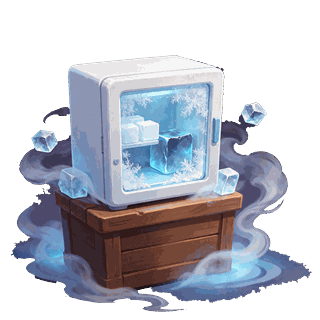
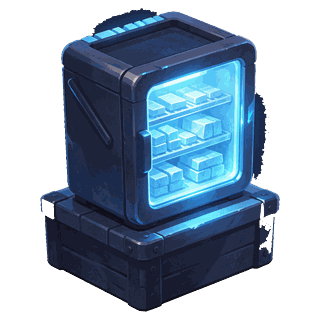
接入美术:52 张新图(摊位、图标、界面底图、顾客、地面、牌楼)
- 新增炭炉;重出冰柜、招财猫、炒饭、糖葫芦、套圈、手机壳
- 金币、爱心、奖牌、11 个秘诀图标换成图片
- 按钮、纸签、木牌、横幅换成九宫格底图;横幅两端单独留宽
- 7 个顾客的正面和背面;亲子夜的小孩优先用小孩形象
- 街面、摊位区地面、面板木板贴图;街口牌楼;转发封面;小游戏图标放在 上架素材/
- process_art:取样点避开伸到边缘的主体;个别原图可登记特殊处理(容差、镂空、多抠一圈、只留中间);
  按钮裁木桩、纸签补缺口;贴图裁边后镜像拼成无缝;封面按 5:4 居中裁
- 铺了地面贴图后,没解锁的地块压暗;小牌子仍用代码画
- 原图暂不进仓库(带水印、体积大),只提交处理后的小图;移除 6 张已被替换的旧原图
- 文档:美术规格第 0 节(进度、这批图的问题、待办)、交付说明、原图命名说明

diff --git a/night-market-game/js/main.js b/night-market-game/js/main.js
@@ -10,7 +10,6 @@ const GOLD = '#ffc94a', DIM = '#b9a98f', TXT = '#fbf3e2';
 const INK = '#2b1a12', PAPER = '#f6e7c8', PAPER_D = '#e6d2a8', WOOD = '#6b4027', WOOD_D = '#3a2216', RED = '#d24a35', GREEN = '#3f9163', WARM = '#c9b79a', BROWN = '#8a6a48';
 const ui = { sel: null, modal: null, toast: null, hits: [], t: 0, dark: .35, pops: [], coins: [], rings: [], money: 60, inc: 0, feed: [], speed: 1, cust: [], spawn: 0, gap: .3, endT: 0, peek: null, best: 0, pendingRival: null, lastAr: null };
 const pick = a => a[Math.random() * a.length | 0];
-const GATE_TEXT_Y = .74;   // 牌楼图里横匾中心离底边的高度占整张图的比例,换了牌楼图要按图调
 
 // ---------- 基础绘制 ----------
 const font = (px, b) => `${b ? 'bold ' : ''}${px}px "PingFang SC","Microsoft YaHei",sans-serif`;
@@ -52,7 +51,7 @@ const NINE_OF = { [PAPER]: 'ui_paper', '#fff5df': 'ui_paper', [PAPER_D]: 'ui_pap
 // 角画多大:按钮和木牌(192×96 的图)按高度等比,纸签(192×192)按短边的八分之一,限制在 6~14 之间
 const cornerOf = (img, w, h) => img === 'ui_paper' ? Math.max(6, Math.min(14, Math.min(w, h) / 8)) : h / 4;
 function plate(x, y, w, h, fill, r = 8, lift = 3, img = NINE_OF[fill]) {
-  if (img && A.image(img)) {
+  if (img && A.image(img) && !(img === 'ui_paper' && Math.min(w, h) < 36)) {   // 手撕纸签缩得太小边缘会毛糙:小牌子(顶栏的小按钮、提示条)仍用代码画
     const a = ctx.globalAlpha; if (fill === PAPER_D) ctx.globalAlpha = a * .55;   // 暗一号的纸(没解锁的图鉴格子)用半透明表示
     A.nine(ctx, img, x, y, w, h + lift, cornerOf(img, w, h)); ctx.globalAlpha = a; return;
   }
@@ -271,7 +270,7 @@ function updateNight(dt) {
   const sdt = dt * ui.speed; ui.spawn -= sdt;
   if (N.queue.length && ui.spawn <= 0) {
     ui.spawn = ui.gap; const c = L.newCust(N.queue.pop());
-    Object.assign(c, { x: l.streetX + l.sw / 2 + (Math.random() - .5) * l.sw * .5, y: l.gridY - 30, dir: 1, next: 0, look: A.pickLook(c.rich), seed: Math.random() * 9, shirt: pick(A.SHIRTS), hair: pick(A.HAIRS), skin: pick(A.SKINS), shirt2: pick(A.SHIRTS), hair2: pick(A.HAIRS), look2: A.pickLook(false) });
+    Object.assign(c, { x: l.streetX + l.sw / 2 + (Math.random() - .5) * l.sw * .5, y: l.gridY - 30, dir: 1, next: 0, look: A.pickLook(c.rich, c.kid), seed: Math.random() * 9, shirt: pick(A.SHIRTS), hair: pick(A.HAIRS), skin: pick(A.SKINS), shirt2: pick(A.SHIRTS), hair2: pick(A.HAIRS), look2: A.pickLook(false) });
     ui.cust.push(c);
   }
   const sp = (l.gridH + 56) / 2.6;
@@ -437,14 +436,15 @@ function drawScene() {
       }
       if (sel && sel.kind === 'stall' && sel.s === at) { ctx.strokeStyle = `rgba(255,215,90,${.6 + .4 * pulse})`; ctx.lineWidth = 2.5; ctx.stroke(); }
     } else {
-      ctx.strokeStyle = 'rgba(255,255,255,.1)'; ctx.lineWidth = 1; ctx.setLineDash([4, 4]); ctx.stroke(); ctx.setLineDash([]);
+      if (A.image('tile_walk')) { ctx.fillStyle = 'rgba(8,7,18,.5)'; ctx.fill(); }   // 铺了地面贴图以后,没解锁的地块压暗一层,和能用的地块分开
+      ctx.strokeStyle = 'rgba(255,255,255,.16)'; ctx.lineWidth = 1; ctx.setLineDash([4, 4]); ctx.stroke(); ctx.setLineDash([]);
       if (day && L.canUnlock(c, r)) txt('+¥' + L.unlockCost(), p.x + p.w / 2, p.y + p.h / 2, 11, S.money >= L.unlockCost() ? '#b9f5cf' : DIM, 'center');
     }
     if (day) hit(p.x, p.y, p.w, p.h, () => tapPlot(c, r));
   }
-  // 街口牌楼:有 gate.png 就画图(2:1,横匾留空,字由这里写在横匾的位置),没有就画一道红横梁
+  // 街口牌楼:有 gate.png 就画图,立在街口正中;没有就画一道写着「夜市」的红横梁
   const gate = A.image('gate'), gcx = l.streetX + l.sw / 2;
-  if (gate) { const gh = 36, gw = gh * gate.width / gate.height; ctx.drawImage(gate, gcx - gw / 2, l.gridY - 6 - gh, gw, gh); txt('夜 市', gcx, l.gridY - 6 - gh * GATE_TEXT_Y, 11, '#ffe6a0', 'center', true); }
+  if (gate) { const gh = 46, gw = gh * gate.width / gate.height; ctx.drawImage(gate, gcx - gw / 2, l.gridY - 2 - gh, gw, gh); }   // 牌楼图太小,横匾里写不下字,就不写了
   else {
     A.rr(ctx, l.streetX - 4, l.gridY - 30, l.sw + 8, 20, 6); ctx.fillStyle = '#b8322a'; ctx.fill();
     ctx.fillStyle = '#e25a40'; ctx.fillRect(l.streetX - 4, l.gridY - 30, l.sw + 8, 4); txt('夜 市', gcx, l.gridY - 19, 12, '#ffe6a0', 'center', true);

diff --git a/night-market-game/js/art.js b/night-market-game/js/art.js
@@ -11,10 +11,13 @@ export const IMAGE_FILES = ASSETS.slice();
 const IMG = {};
 export const image = name => IMG[name];
 // 给一位顾客随机挑一套形象(返回名字);没有顾客图片时返回 null,用代码画的小人
-export function pickLook(rich) {
+const KID_LOOKS = ['boy', 'girl', 'pupil'];   // 这几个形象是小孩:亲子夜里的小孩优先用它们
+export function pickLook(rich, kid) {
   const ids = Object.keys(IMG).map(k => (k.match(/^cust_(.+)_front$/) || [])[1]).filter(Boolean);
   if (rich) return ids.indexOf('rich') >= 0 ? 'rich' : null;
-  const normal = ids.filter(i => i !== 'rich'); return normal.length ? normal[Math.random() * normal.length | 0] : null;
+  let normal = ids.filter(i => i !== 'rich'); const kids = normal.filter(i => KID_LOOKS.indexOf(i) >= 0);
+  if (kid && kids.length) normal = kids;
+  return normal.length ? normal[Math.random() * normal.length | 0] : null;
 }
 export function loadImages(P) {
   for (const f of IMAGE_FILES) { const im = P.createImage(); im.onload = () => { IMG[f.replace(/\.\w+$/, '')] = im; }; im.src = 'assets/' + f; }
@@ -157,11 +160,13 @@ export function icon(ctx, name, x, y, size) {
 // 九宫格拉伸:原图四个角各 SLICE 像素保持原样,四条边和中间拉长。corner 是角在屏幕上画多大(设计稿单位)。
 // 有图返回 true;没图返回 false,由调用方用代码画
 const SLICE = 24;
+// 横幅两端的卷轴比 24 像素宽:左右各留 44 像素不拉伸(要和 tools/process_art.py 里的 SLICE_X 一致)
+const SLICE_X = { ui_ribbon_red: 44, ui_ribbon_gold: 44, ui_ribbon_gray: 44 };
 export function nine(ctx, name, x, y, w, h, corner) {
   const im = IMG[name]; if (!im) return false;
-  const s = SLICE, iw = im.width, ih = im.height, d = Math.min(corner, w / 2, h / 2), o = .5;   // o:相邻两块互相压住半个单位,缩放后不露缝
-  const sx = [0, s, iw - s], sw = [s, iw - 2 * s, s], sy = [0, s, ih - s], sh = [s, ih - 2 * s, s];
-  const dx = [x, x + d, x + w - d], dw = [d, w - 2 * d, d], dy = [y, y + d, y + h - d], dh = [d, h - 2 * d, d];
+  const s = SLICE, t = SLICE_X[name] || s, iw = im.width, ih = im.height, d = Math.min(corner, w / 2, h / 2), e = Math.min(d * t / s, w / 2), o = .5;   // o:相邻两块互相压住半个单位,缩放后不露缝
+  const sx = [0, t, iw - t], sw = [t, iw - 2 * t, t], sy = [0, s, ih - s], sh = [s, ih - 2 * s, s];
+  const dx = [x, x + e, x + w - e], dw = [e, w - 2 * e, e], dy = [y, y + d, y + h - d], dh = [d, h - 2 * d, d];
   for (let r = 0; r < 3; r++) for (let c = 0; c < 3; c++) {
     if (dw[c] <= 0 || dh[r] <= 0) continue;
     const ex = c === 1 ? o : 0, ey = r === 1 ? o : 0;

diff --git a/night-market-game/js/assets.js b/night-market-game/js/assets.js
@@ -1,2 +1,2 @@
 // 这个文件由 tools/process_art.py 自动生成,不要手改。assets/ 里有哪些图片,游戏就加载哪些。
-export default ['stall_candy.png', 'stall_cat.png', 'stall_fridge.png', 'stall_ice.png', 'stall_kebab.png', 'stall_lamp.png', 'stall_phone.png', 'stall_rice.png', 'stall_ring.png', 'stall_tea.png', 'stall_tofu.png'];
+export default ['cust_boy_back.png', 'cust_boy_front.png', 'cust_girl_back.png', 'cust_girl_front.png', 'cust_granny_back.png', 'cust_granny_front.png', 'cust_office_back.png', 'cust_office_front.png', 'cust_pupil_back.png', 'cust_pupil_front.png', 'cust_rich_back.png', 'cust_rich_front.png', 'cust_uncle_back.png', 'cust_uncle_front.png', 'gate.png', 'icon_coin.png', 'icon_heart.png', 'icon_heart_empty.png', 'medal_1.png', 'medal_2.png', 'medal_3.png', 'perk_back.png', 'perk_big.png', 'perk_cheap.png', 'perk_first.png', 'perk_land.png', 'perk_last.png', 'perk_more.png', 'perk_price.png', 'perk_rich.png', 'perk_shout.png', 'perk_tip.png', 'share_cover.jpg', 'stall_candy.png', 'stall_cat.png', 'stall_fridge.png', 'stall_grill.png', 'stall_ice.png', 'stall_kebab.png', 'stall_lamp.png', 'stall_phone.png', 'stall_rice.png', 'stall_ring.png', 'stall_tea.png', 'stall_tofu.png', 'tile_street.jpg', 'tile_walk.jpg', 'tile_wood.jpg', 'ui_btn_green.png', 'ui_btn_paper.png', 'ui_btn_red.png', 'ui_paper.png', 'ui_ribbon_gold.png', 'ui_ribbon_gray.png', 'ui_ribbon_red.png', 'ui_wood.png'];

diff --git a/night-market-game/美术规格与出图提示词.md b/night-market-game/美术规格与出图提示词.md
@@ -4,23 +4,44 @@
 
 风格已经定了:**以已经完成的烤串摊为准**,后面所有素材都拿它做风格参考图。
 
-## 0. 当前进度和待办(2026-11-13)
+## 0. 当前进度和待办(2026-11-17)
 
-**已经进游戏的:** 8 个售卖摊(烤串、臭豆腐、炒饭、奶茶、糖葫芦、冰粉、套圈、手机壳)和 3 个支援摊(灯牌、冰柜、招财猫)。大小、角度一致,棚顶颜色符合品类。
+**已经进游戏的:**
+
+- 摊位:8 个售卖摊(烤串、臭豆腐、炒饭、奶茶、糖葫芦、冰粉、套圈、手机壳)和 4 个支援摊(灯牌、冰柜、炭炉、招财猫)。其中炒饭、糖葫芦、套圈、手机壳、冰柜、招财猫、炭炉是 11 月 17 日这一批新出的。
+- 图标:金币、爱心(实心和空心)、铜银金牌、11 个经营秘诀图标。
+- 界面底图:红、绿、米白三种按钮,纸签,木牌,红、金、灰三条横幅。
+- 顾客:6 个普通顾客(上班族、老奶奶、大胡子、男孩、女孩、小学生)和 1 个土豪,正面和背面都有。男孩、女孩、小学生在「亲子夜」里当小孩用。
+- 地面:街面(石子路)、摊位区地面(石板)、底部面板的木板。
+- 其他:街口牌楼、转发封面;小游戏图标处理后放在 `上架素材/app_icon.png`。
+
+**这一批交图里发现的问题(程序已经兜住,下次出图请避免):**
+
+| 问题 | 哪几张 | 程序怎么处理的 | 下次出图怎么改 |
+|---|---|---|---|
+| 朝向反了(正面朝左下) | 炒饭、糖葫芦、手机壳 | 文件名加 `_flip`,脚本水平翻转 | 正面朝右下,能看到正面和左侧面,以烤串为准 |
+| 新摊位比旧摊位暗 | 炒饭、糖葫芦、手机壳 | 没处理 | 棚内灯光再亮一些,和烤串、奶茶放在一起比一下 |
+| 主体伸到了图片外 | 握手图标(袖子)、银牌(绶带) | 握手只留中间;银牌绶带顶上是平的 | 主体完整地画在图片里,四周留空 |
+| 主体颜色和背景太像 | 冰柜的深蓝底座 | 这一张单独调小了抠图容差 | 底座用木头色,或者背景换成和主体差得远的颜色 |
+| 背景不是纯色 | 上班族(身后一团亮光)、土豪(身边一圈暗影)、男孩(脚下踩着石头)、老奶奶和大胡子(脚下有投影) | 亮光、暗影、石头都单独抠掉了;老奶奶和大胡子脚下的投影还在 | 背景纯色平涂,不要光晕、地面投影和任何陪衬的东西 |
+| 黑头发和深色背景太像 | 土豪背面(头被抠掉了) | 这一张单独调小了抠图容差 | 背景换成和头发差得远的颜色 |
+| 牌楼的横匾太小 | 牌楼 | 游戏里牌楼只有四五十像素高,横匾里写不下字,就不写了 | 可以保持现状;想要字的话直接画在图里 |
+| 贴图不能无缝平铺 | 街面、地面、木板 | 裁掉四周带水印的边,再上下左右镜像拼成一张,平铺没有接缝 | 可以保持现状 |
+| 转发封面是 16:9 | 分享封面 | 裁掉左右两边,留中间 5:4 的部分 | 直接出 5:4(比如 1500×1200) |
+| 按钮顶上有两根木桩 | 3 个按钮 | 木桩裁掉了 | 装饰只能放在四个角上,边的中间不要有东西 |
+| 纸签顶边中间有缺口 | 纸签 | 用下半张翻上去代替上半张 | 四条边都要平整,撕痕只放在角上 |
+| 横幅两端的卷轴偏宽 | 3 条横幅 | 两端各留 44 像素不拉伸 | 可以保持现状 |
+| 纸签缩小后边缘毛糙 | 纸签 | 顶栏的小按钮和提示条仍用代码画的,大块的才用纸签图 | 边缘的撕痕再浅一些 |
+| 带水印和"AI生成"角标 | 全部 52 张 | 抠图时去掉了,**只适合内部预览** | 上线前必须换成无水印、有商用授权的导出 |
 
 **待办,按优先级:**
 
 | 顺序 | 内容 | 说明 | 详见 |
 |---|---|---|---|
-| 1 | 炭炉 | 风格参照灯牌:小木台上放一个烧红的炭火炉 | 第 5 节 |
-| 1 | 柠檬水、气球、小龙虾 | 新加的三个售卖摊,现在用代码画的占位图。解锁得晚(累计 36/45/55 晚),可以排在炭炉后面 | 第 5 节 |
-| 2 | 冰柜、招财猫重出 | 去掉周围的雾气、飘着的冰块、散落的铜钱,只留主体。现在铜钱被图片边缘裁掉了一部分 | 第 5 节 |
-| 3 | 全部摊位换成干净的导出 | 不带水印、不带左上角的角标,背景用纯色平涂。现在套圈、糖葫芦、手机壳、炒饭的棚顶左上方有角标残留 | 第 7 节 |
-| 4 | 图标 | 16 个经营秘诀图标、7 个摊主头像,外加金币、爱心、奖牌。现在用的是表情符号,是界面里最显眼的"模板味" | 第 11 节 |
-| 5 | 界面底图 | 按钮、纸签、木牌、木板。现在是代码画的纯色块 | 第 11 节 |
-| 6 | 顾客 | 6 个普通顾客加 1 个土豪,正面和背面。现在是代码画的小人 | 第 6 节 |
-| 7 | 地面贴图 | 街面和摊位区地面各一张 | 第 6 节 |
-| 8 | 小游戏图标和分享封面 | 上架和转发时用 | 第 11 节 |
+| 1 | 全部素材换成无水印导出 | 现在进游戏的图都是带水印的即梦导出,不能这样上线 | 第 7、10 节 |
+| 2 | 柠檬水、气球、小龙虾 | 新加的三个售卖摊,现在用代码画的占位图。解锁得晚(累计 36/45/55 晚) | 第 5 节 |
+| 3 | 烤串、臭豆腐、奶茶、冰粉、灯牌重出 | 这 5 个还是最早那批带角标的导出,和新一批放在一起亮度也不一致 | 第 5、7 节 |
+| 4 | 图标补齐 | 5 个后加的秘诀图标(存钱罐、压轴好戏、老供货商、排长队、尝鲜)和 7 个摊主头像,现在是表情符号 | 第 11 节 |
 
 ## 1. 风格定义
 

diff --git a/交付说明.md b/交付说明.md
@@ -1,6 +1,6 @@
 # 夜市一条街 · 交付说明
 
-更新于 2026-11-13。
+更新于 2026-11-17。
 
 ## 现在是什么状态
 
@@ -30,8 +30,8 @@
 1. **填广告位 ID**。在微信公众平台开通流量主,创建一个激励视频广告位,把它的 ID 填到 `night-market-game/js/platform.js` 最上面的 `AD_UNIT_ID`。**不填的话,点"看广告"会直接发奖励**,并提示"广告位未配置",只适合测试,不能这样上线。
 2. **确认 AppID**。`night-market-game/project.config.json` 里现在填的是 `wx4e7aa1114134b9d6`(登录开发者工具后自动带出来的)。如果这个游戏要用别的 AppID,改这里。
 3. **真机测试**。在开发者工具里点"真机调试"或"预览",用手机扫码。重点看:流畅度、字体和表情符号的显示、声音、转发卡片、从好友的卡片点进来能否进入对战。这些在模拟器里看不出来。
-4. **补齐美术**。还缺炭炉的图;冰柜和招财猫要重出干净的版本;所有摊位要换成无水印、无角标的导出;经营秘诀的图标现在是表情符号。清单在 `night-market-game/美术规格与出图提示词.md` 的第 0 节。界面素材(图标、按钮、纸签、木牌、横幅、木板、牌楼、转发封面)的接入代码已经写好,原图按文件名放进 `art_raw/` 运行 `python tools/process_art.py` 就会换上,不用再改代码。
-5. **确认美术的商用授权**。现在的摊位图是带水印的即梦导出,处理时去掉了水印,只适合内部预览。
+4. **补齐美术**。11 月 17 日交来的 52 张已经全部接入(炭炉、重出的冰柜和招财猫、4 个重出的售卖摊、金币爱心奖牌、11 个秘诀图标、按钮纸签木牌横幅、7 个顾客的正面和背面、街面地面木板贴图、街口牌楼、转发封面;小游戏图标在 `上架素材/app_icon.png`,到微信公众平台上传)。还缺:柠檬水、气球、小龙虾三个摊位;5 个后加的秘诀图标和 7 个摊主头像;烤串、臭豆腐、奶茶、冰粉、灯牌还是最早那批带角标的图。清单和这一批发现的问题在 `night-market-game/美术规格与出图提示词.md` 的第 0 节。新图按文件名放进 `art_raw/` 运行 `python tools/process_art.py` 就会换上,不用再改代码。
+5. **确认美术的商用授权**。现在进游戏的图全部是带水印和"AI生成"角标的即梦导出,处理时去掉了水印,只适合内部预览,不能这样上线。
 6. **上架资质**。个人主体上架小游戏需要的材料(软著、自审自查报告、备案、类目等)以微信公众平台当前的要求为准,这部分我没有核实。
 
 ## 怎么运行
@@ -100,7 +100,8 @@ python -m http.server 8765
 
 - **没有好友排行榜**,只有一对一打擂。
 - **数值只用自动试玩校准过**,没有真人试玩数据。主线难度、无尽模式的涨幅、每日挑战的奖牌线都需要试玩后再调。
-- **界面是代码画的**,不是手绘素材;经营秘诀图标是表情符号,在不同手机上长得不一样。美术交图后会自动换成图片。奖牌、"看广告"的三角、引导箭头已经改成代码画的,不再用表情符号。
+- **界面一部分是手绘素材,一部分还是代码画的**。按钮、木牌、横幅、说明条、卡片、弹窗已经用美术图;顶栏的小按钮、提示条、进度条、摊位名牌仍是代码画的(纸签图缩得太小边缘会毛糙)。5 个后加的秘诀和 7 位摊主还是表情符号,在不同手机上长得不一样。
+- **美术风格还不完全统一**:新出的炒饭、糖葫芦、手机壳比早先的烤串、奶茶暗;上班族、老奶奶、大胡子衣服偏深色,在深色街面上不太显眼。
 - **每日挑战的日期按手机本地时间算**,改手机时间可以重复打。
 - **夜晚中途退出**会回到当晚开张前(可以重摆);只有在"没达标"的结算界面退出才会按未达标结算。
 - **声音是代码合成的简单音效**,没有背景音乐。
